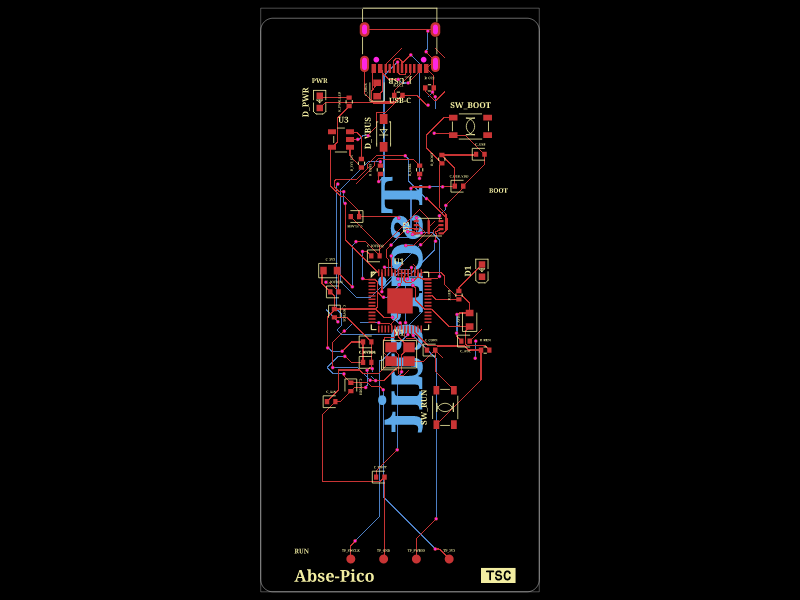
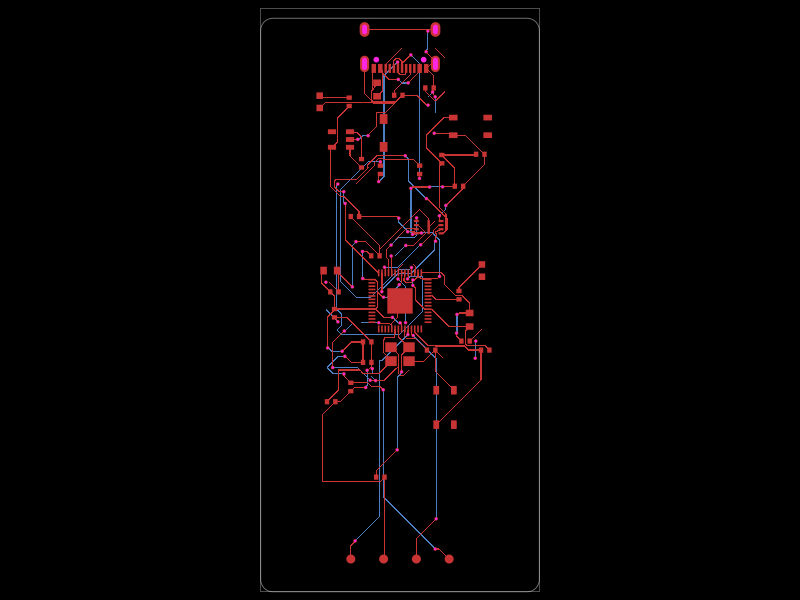
Clean homepage PCB hero renders

diff --git a/src/index.css b/src/index.css
@@ -1573,17 +1573,17 @@ body {
 
 .tscircuit-landing .landing-hero-pcb-strip {
   position: absolute;
-  bottom: 3%;
+  bottom: 4%;
   left: 50%;
   z-index: 0;
   display: flex;
-  width: min(calc(100% - (var(--landing-page-gutter) * 2)), 2200px);
+  width: min(calc(100% - (var(--landing-page-gutter) * 2)), 1980px);
   align-items: flex-end;
   justify-content: center;
-  gap: clamp(12px, 1.5vw, 28px);
+  gap: 0;
   overflow: visible;
   pointer-events: none;
-  transform: translate(-50%, 20%);
+  transform: translate(-50%, 18%);
 }
 
 .tscircuit-landing .landing-hero-pcb-render {
@@ -1591,8 +1591,10 @@ body {
   flex: 0 0 auto;
   width: clamp(520px, 41vw, 800px);
   height: auto;
-  opacity: 0.26;
-  filter: grayscale(1) saturate(0) contrast(1.08) brightness(0.72);
+  margin-inline: clamp(-96px, -5vw, -48px);
+  opacity: 0.3;
+  filter: grayscale(1) saturate(0) contrast(1.22) brightness(0.76);
+  mix-blend-mode: screen;
   transform: translateZ(0);
   animation: landing-hero-pcb-render-glow 15s ease-in-out infinite;
 }
@@ -1609,30 +1611,31 @@ body {
   0%,
   30%,
   100% {
-    opacity: 0.18;
-    filter: grayscale(1) saturate(0) contrast(1.04) brightness(0.58);
+    opacity: 0.22;
+    filter: grayscale(1) saturate(0) contrast(1.14) brightness(0.62);
   }
 
   48% {
-    opacity: 0.4;
-    filter: grayscale(1) saturate(0) contrast(1.12) brightness(0.86) drop-shadow(0 0 28px rgba(255, 255, 255, 0.16));
+    opacity: 0.42;
+    filter: grayscale(1) saturate(0) contrast(1.28) brightness(0.86);
   }
 
   62% {
-    opacity: 0.28;
-    filter: grayscale(1) saturate(0) contrast(1.08) brightness(0.74) drop-shadow(0 0 14px rgba(255, 255, 255, 0.09));
+    opacity: 0.32;
+    filter: grayscale(1) saturate(0) contrast(1.2) brightness(0.74);
   }
 }
 
 @media (max-width: 760px) {
   .tscircuit-landing .landing-hero-pcb-strip {
     width: 190vw;
-    gap: 18px;
+    gap: 0;
     transform: translate(-50%, 16%);
   }
 
   .tscircuit-landing .landing-hero-pcb-render {
     width: 78vw;
+    margin-inline: -10vw;
   }
 }
 